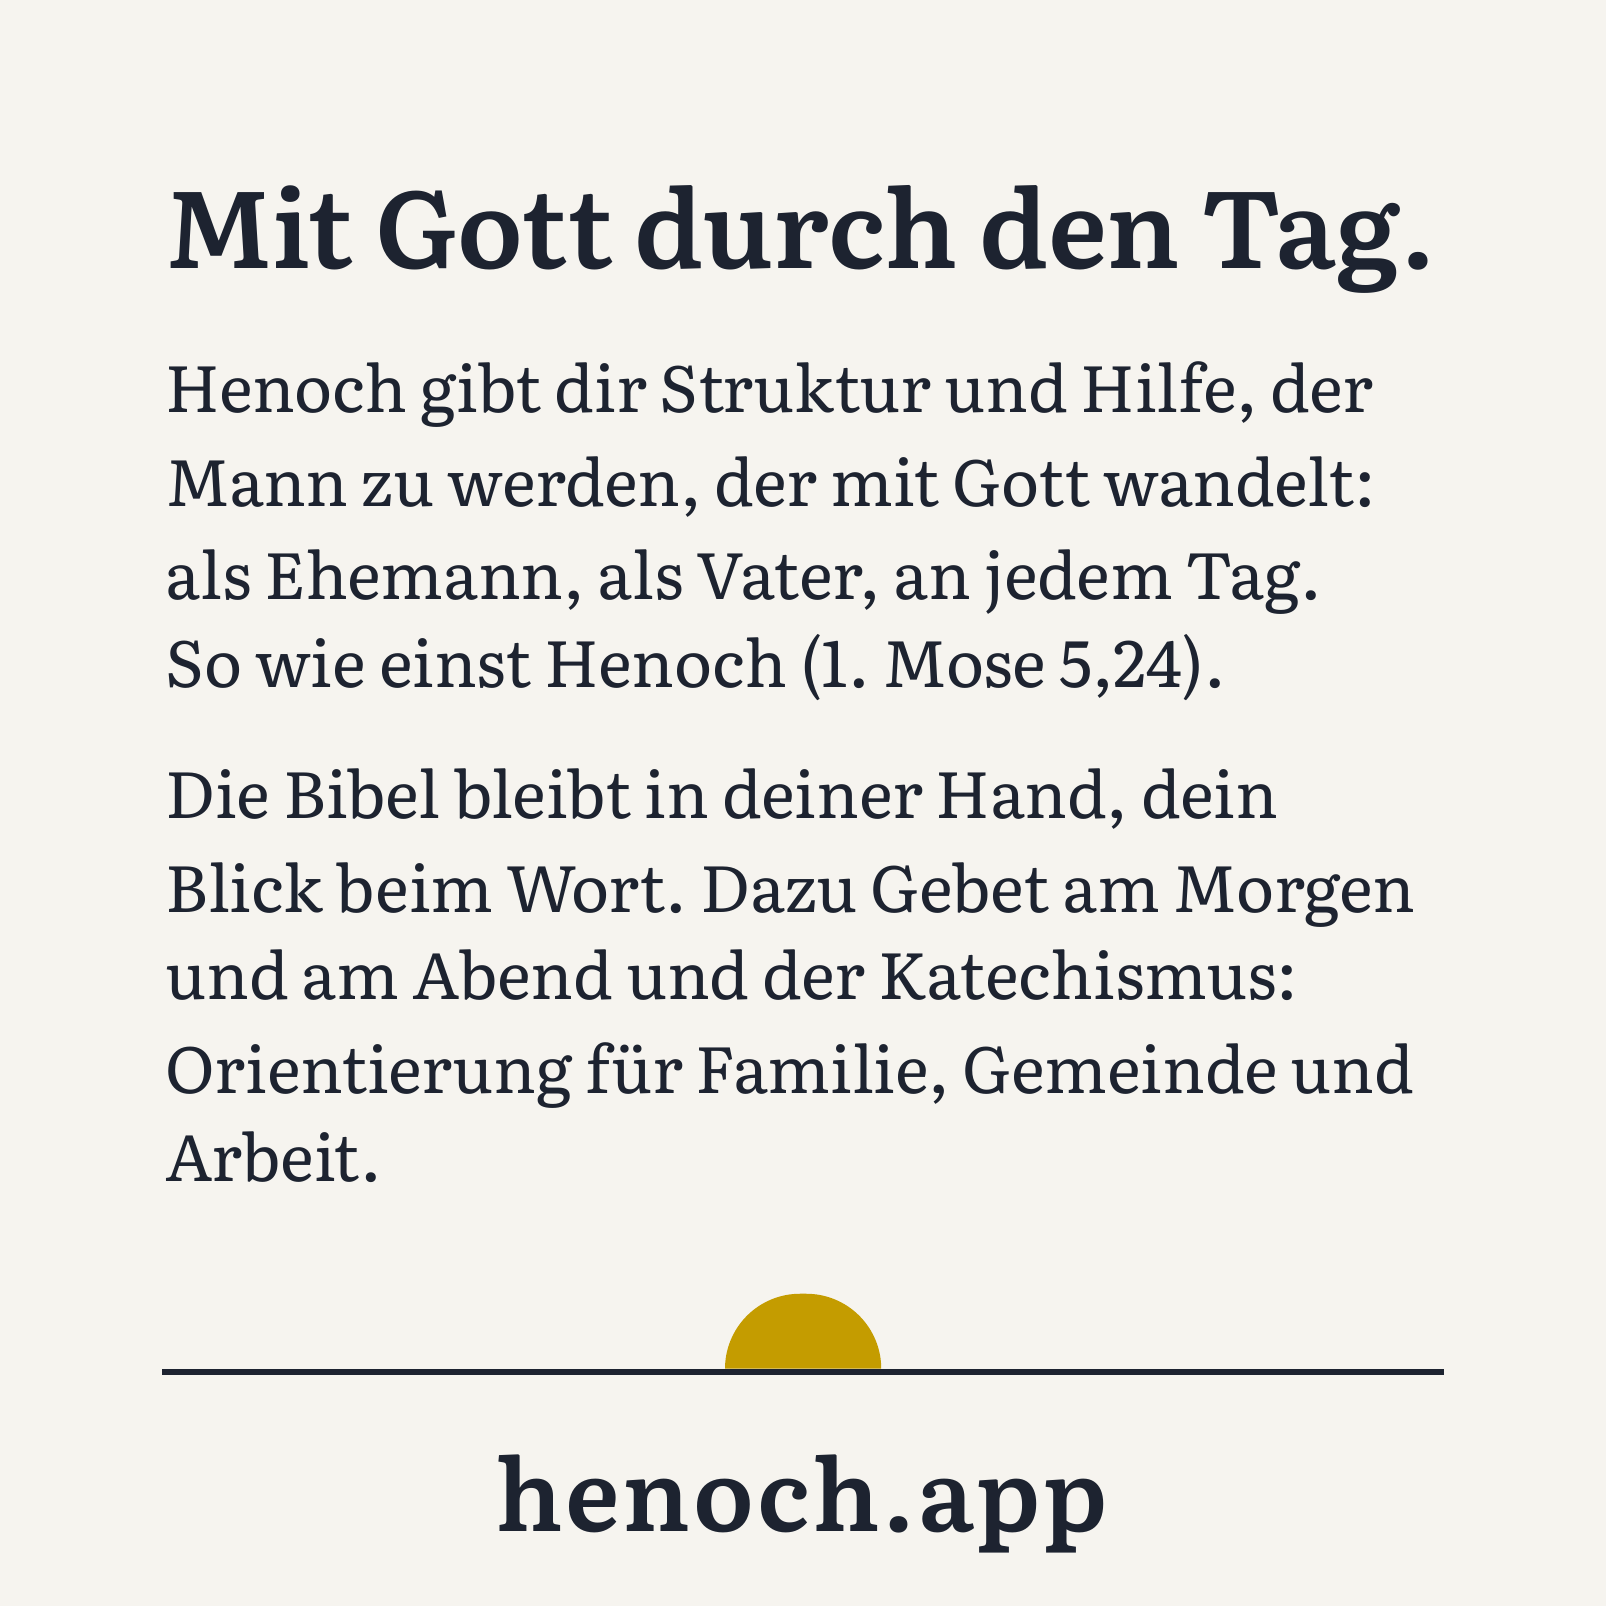
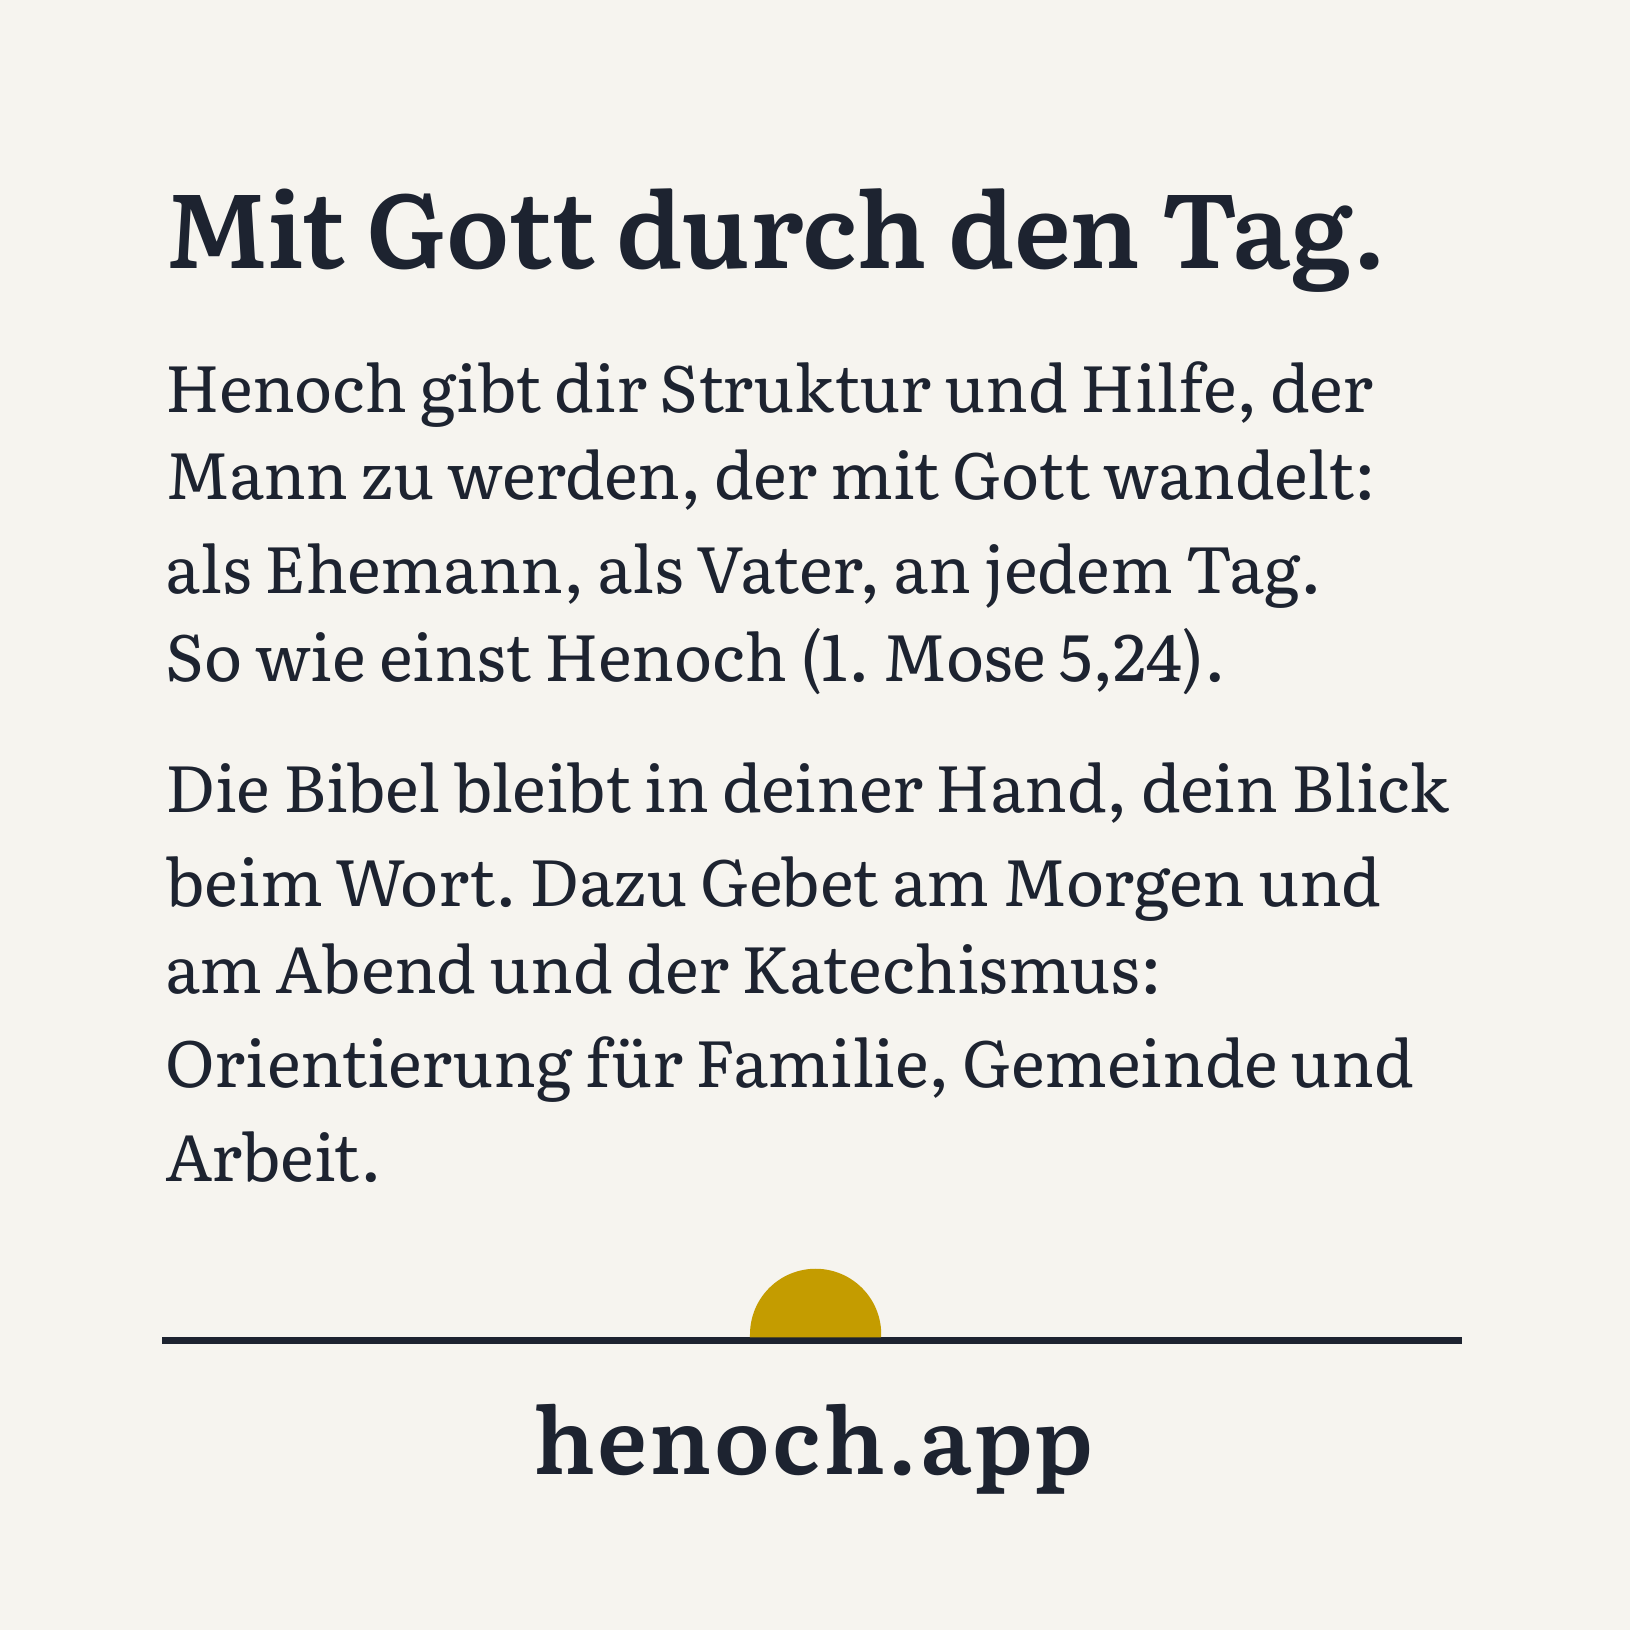
Visitenkarte: 69 × 69 mm mit 2 mm Anschnitt, Adresse im Sicherheitsbereich
Claude-Session: https://claude.ai/code/session_01JETNZ2BbFd9PaqHXcpm5eH

diff --git a/docs/visitenkarte/visitenkarte.html b/docs/visitenkarte/visitenkarte.html
@@ -5,7 +5,7 @@
 <meta name="viewport" content="width=device-width, initial-scale=1">
 <title>Henoch Visitenkarte</title>
 <style>
-/* Square business card for Vistaprint: 65 × 65 mm trim with 1.5 mm bleed on every side. Page 1 is the front, page 2 the back. */
+/* Square business card for Vistaprint: 65 × 65 mm trim with 2 mm bleed on every side (69 × 69 mm, as Vistaprint's upload shows it); keep content 2 mm inside the trim. Page 1 is the front, page 2 the back. */
 @font-face { font-family: 'Literata'; font-style: italic; font-weight: 400; src: url('../anleitung/fonts/literata-latin-400-italic.woff2') format('woff2'); }
 @font-face { font-family: 'Literata'; font-style: normal; font-weight: 400; src: url('../anleitung/fonts/literata-latin-400-normal.woff2') format('woff2'); }
 @font-face { font-family: 'Literata'; font-style: normal; font-weight: 600; src: url('../anleitung/fonts/literata-latin-600-normal.woff2') format('woff2'); }
@@ -13,7 +13,7 @@
 
 :root {
   --trim: 65mm;
-  --bleed: 1.5mm;
+  --bleed: 2mm;
   --page: calc(var(--trim) + 2 * var(--bleed));
   --paper: #f6f4ef;
   --ink: #1d2330;
@@ -21,7 +21,7 @@
   --rule: #d6d0c4;
   --gold: #c49c00;
 }
-@page { size: 68mm 68mm; margin: 0; }
+@page { size: 69mm 69mm; margin: 0; }
 * { box-sizing: border-box; }
 html, body { margin: 0; background: #8a8f98; }
 body { display: flex; flex-wrap: wrap; gap: 10mm; padding: 10mm; justify-content: center; }
@@ -43,14 +43,14 @@ body { display: flex; flex-wrap: wrap; gap: 10mm; padding: 10mm; justify-content
 .name { font-family: 'Literata', Georgia, serif; font-weight: 600; font-size: 22.5pt; letter-spacing: 0.02em; line-height: 1; }
 .motto { font-family: 'Literata', Georgia, serif; font-size: 11pt; color: var(--ink); margin-top: 2.4mm; line-height: 1; }
 /* Alternative back: headline, two short paragraphs, then the address under the icon's horizon and sun. */
-.back-text { justify-content: flex-start; align-items: stretch; padding: calc(var(--bleed) + 5.5mm) calc(var(--bleed) + 5.5mm) calc(var(--bleed) + 5mm); }
-.pitch { margin-bottom: 2.2mm; font-family: 'Literata', Georgia, serif; hyphens: auto; -webkit-hyphens: auto; }
-.pitch h2 { font-weight: 600; font-size: 13pt; line-height: 1.15; margin: 0 0 2.4mm; }
+.back-text { justify-content: flex-start; align-items: stretch; padding: calc(var(--bleed) + 5mm) calc(var(--bleed) + 5mm) calc(var(--bleed) + 6mm); }
+.pitch { margin-bottom: 1.5mm; font-family: 'Literata', Georgia, serif; hyphens: auto; -webkit-hyphens: auto; }
+.pitch h2 { font-weight: 600; font-size: 12.5pt; line-height: 1.15; margin: 0 0 2.4mm; }
 .pitch p { font-size: 7.8pt; line-height: 1.4; margin: 0 0 1.7mm; }
 .pitch .source { font-style: italic; color: var(--muted); font-size: 7pt; margin: 0; }
-.horizon { margin-top: auto; flex: none; position: relative; height: 3.2mm; border-bottom: 0.35mm solid var(--ink); }
-.horizon::after { content: ''; position: absolute; left: 50%; bottom: 0; width: 6.4mm; height: 3.2mm; margin-left: -3.2mm; border-radius: 3.2mm 3.2mm 0 0; background: var(--gold); }
-.site { text-align: center; font-family: 'Literata', Georgia, serif; font-weight: 600; font-size: 12pt; letter-spacing: 0.03em; line-height: 1; margin-top: 2.6mm; }
+.horizon { margin-top: auto; flex: none; position: relative; height: 2.8mm; border-bottom: 0.35mm solid var(--ink); }
+.horizon::after { content: ''; position: absolute; left: 50%; bottom: 0; width: 5.6mm; height: 2.8mm; margin-left: -2.8mm; border-radius: 2.8mm 2.8mm 0 0; background: var(--gold); }
+.site { text-align: center; font-family: 'Literata', Georgia, serif; font-weight: 600; font-size: 11pt; letter-spacing: 0.03em; line-height: 1; margin-top: 2.2mm; }
 /* Back: QR code to the website, the address beneath it. */
 .qr { width: 30mm; height: 30mm; display: block; }
 .url { font-family: 'Source Sans 3', Helvetica, Arial, sans-serif; font-size: 11pt; letter-spacing: 0.06em; color: var(--ink); margin-top: 5.3mm; line-height: 1; }

diff --git a/docs/visitenkarte/LIESMICH.md b/docs/visitenkarte/LIESMICH.md
@@ -1,6 +1,6 @@
 # Visitenkarte Henoch
 
-Quadratische Visitenkarte für Vistaprint, 65 × 65 mm, mit 1,5 mm Anschnitt an jeder Seite (Seitengröße 68 × 68 mm).
+Quadratische Visitenkarte für Vistaprint, 65 × 65 mm, mit 2 mm Anschnitt an jeder Seite (Seitengröße 69 × 69 mm, wie Vistaprint sie anzeigt). Alles Wichtige liegt mindestens 2 mm innerhalb der Schnittkante, im Sicherheitsbereich von Vistaprint.
 
 - **Vorderseite:** das Bild des App-Symbols randlos über die ganze Fläche in den Farben des Symbols wie auf der Homepage, darin „Henoch“ und „Mit Gott durch den Tag.“; die Farben stehen oben in `.front`
 - **Rückseite:** QR-Code zu https://henoch.app/ und darunter die Adresse
